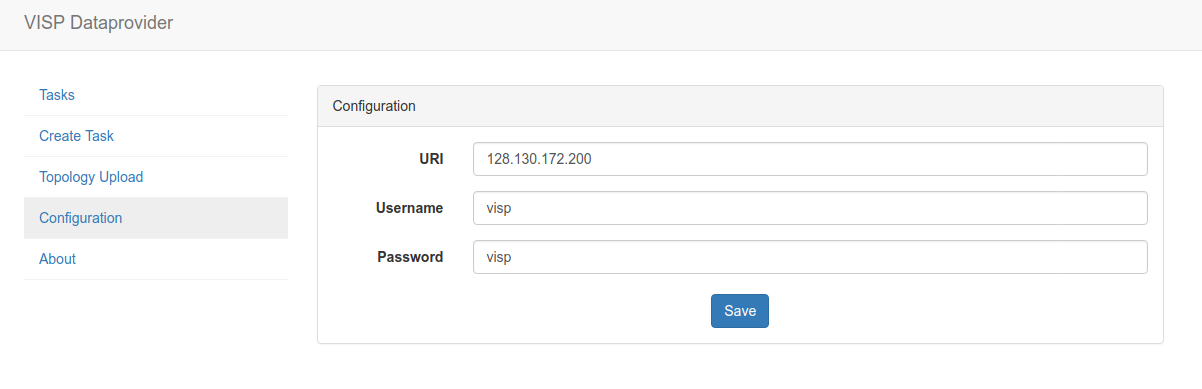
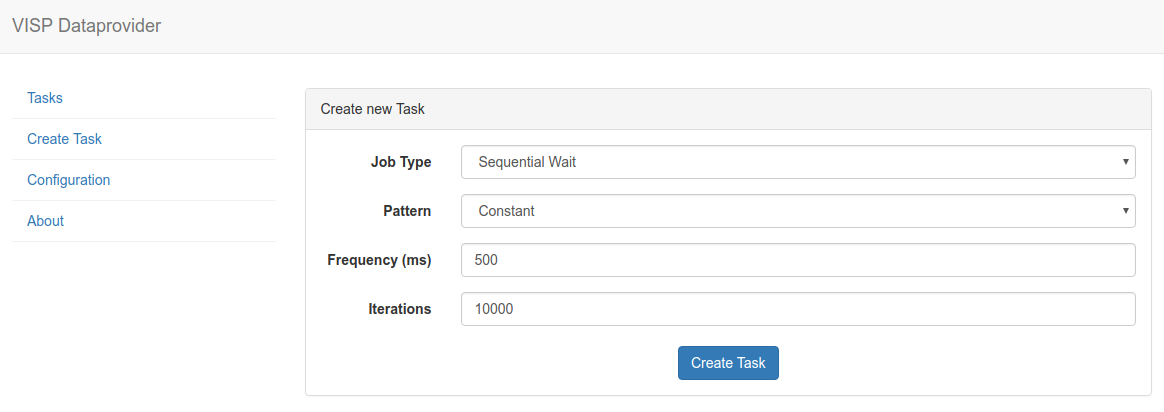
updated documentation

diff --git a/_layouts/quickstart.html b/_layouts/quickstart.html
@@ -7,7 +7,7 @@ title: Quick Start
 
                           {{ content }}
                         </div><!--//content-inner-->
-                    </div><!--//doc-content-->                                        
+                    </div><!--//doc-content-->
                     <div class="doc-sidebar hidden-xs">
                         <nav id="doc-nav">
                             <ul id="doc-menu" class="nav doc-menu" data-spy="affix">
@@ -25,7 +25,7 @@ title: Quick Start
                                 <li>
                                     <a class="scrollto" href="#setup-visp">Setup VISP</a>
                                     <ul class="nav doc-sub-menu">
-                                        <li><a class="scrollto" href="#resource-pools">Resource Pools</a></li>
+                                        <li><a class="scrollto" href="#creating-resource-pools">Creating Resource Pools</a></li>
                                         <li><a class="scrollto" href="#deploy-topology">Deploy Topology</a></li>
                                     </ul>
                                 </li>
@@ -34,9 +34,9 @@ title: Quick Start
                                     <ul class="nav doc-sub-menu">
                                         <li><a class="scrollto" href="#download-1">Download</a></li>
                                         <li><a class="scrollto" href="#run-data-provider">Run Data Provider Topology</a></li>
-                                        <li><a class="scrollto" href="#stream-data">Stream Data</a></li>                                        
+                                        <li><a class="scrollto" href="#stream-data">Stream Data</a></li>
                                     </ul>
-                                </li>                                                                                                 
+                                </li>
                                 <li><a class="scrollto" href="#fine-tuning">Fine Tuning</a></li>
                             </ul><!--//doc-menu-->
                         </nav>

diff --git a/start.md b/start.md
@@ -49,7 +49,7 @@ docker run --net="host" -d --name mysql -e MYSQL_ROOT_PASSWORD=visp -e MYSQL_DAT
 
 # Configuration
 
-Before the VISP runtime can be executed, two credentials files need to be configured:
+Before the VISP runtime can be executed, the following configuration is necessary:
 
 
 ## Credentials
@@ -107,6 +107,10 @@ Make a copy of the `credential.sample.properties` file and name it `credential.p
 
 The spring credentials for the database and rabbitmq can be kept the same if no changes were made during the container deployment process in the setup of the infrastructure host.
 
+## Database IP
+
+Just in case the VISP Runtime is executed on a host *different* from the host where rabbitmq and MySQL are running, it is possible to specify the database IP manually. This is possible by creating a `database.properties` file in the application root that contains the IP of the host where the MySQL server is running.
+
 # Run VISP
 
 The easiest way to run VISP is by using a docker image.
@@ -153,22 +157,11 @@ mvn spring-boot:run
 ```
 
 
-# Configure Resource Pools
-
-<!--
-# Run VISP
-
-```
-mvn spring-boot:run
-```
--->
-
-
 # Setup VISP
 
-## Resource Pools
+## Creating Resource Pools
 
-Once the infrastructure host is up and running, a resource pool needs to be created. Resource pools are basically cloud computing instances where docker containers are executed. Open the web interface of the infrastructure host (`http://<infrastructureHoste>:8080/`) and navigate to <b>Resource Pools</b>. Initially, there should be no entries. Create a new pool by clickin on the <b>Add new pooled VM</b> button and specify a name, an instance flavour and a cost. The name is an identifier and is also used in the topology config file to distinguish different pools on the same runtime instance. The flavour reflects the amount of computational resources available and basically limits how many operators can be deployed at the same time. The cost value is currently not used.
+Once the infrastructure host is up and running, a resource pool needs to be created. Resource pools are basically cloud computing instances where docker containers are executed. Open the web interface of the infrastructure host (`http://<infrastructureHost>:8080/`) and navigate to <b>Resource Pools</b>. Initially, there should be no entries. Create a new pool by clickin on the <b>Add new pooled VM</b> button and specify a name, an instance flavour and a cost. The name is an identifier and is also used in the topology config file to distinguish different pools on the same runtime instance. The flavour reflects the amount of computational resources available and basically limits how many operators can be deployed at the same time. The cost value is currently not used.
 
 <div class="screenshot-holder">
 <a href="img/quickstart/resourcepools.png" data-title="Add new resource pool" data-toggle="lightbox"><img class="img-responsive" src="img/quickstart/resourcepools.png" alt="add new resource pool"></a>
@@ -199,7 +192,7 @@ In order to evaluate whether the set up topology is actually working properly, w
 <div class="section-block">
 You can download the source code from Github: <br /><br />
 
-	<a class="btn btn-primary btn-cta" href="https://github.com/visp-streaming/dataProvider" target="_blank">
+	<a class="btn btn-primary btn-cta" href="https://github.com/visp-streaming/dataProvider">
 	<i class="fa fa-cloud-download"></i> VISP Data Provider</a>
 </div>
 
@@ -215,6 +208,11 @@ mvn spring-boot:run
 
 Before the data stream can be started, the configuration has to be adapted. Navigate to the VISP Data Provider web interface: `http://localhost:8090/`
 
+There, enter the public URI of the VISP Runtime where the target source operator is located. E.g., if the source that should be addressed is deployed at a VISP runtime `128.130.172.222`, enter that IP.
+
+Username and password are the credentials for the rabbitmq server that were set during the docker deployment of the infrastructure host.
+
+Once the credentials are configured, navigate to *Create Task*, pick a template (e.g. SequentialWait) and specify the frequency and number of iterations. The template decides which queue is targeted and what kind of data is sent.
 
 <div class="screenshot-holder">
 <a href="img/quickstart/dataprovider.png" data-title="Configure Data Provider" data-toggle="lightbox"><img class="img-responsive" src="img/quickstart/dataprovider.png" alt="Configure Data Provider"></a>
@@ -222,9 +220,8 @@ Before the data stream can be started, the configuration has to be adapted. Navi
 </div>
 
 
-There, enter the public URI of the VISP Runtime where the target source operator is located. E.g., if the source that should be addressed is deployed at a VISP runtime `128.130.172.222`, enter that IP.
 
-Username and password are the credentials for the rabbitmq server that were set during the docker deployment of the infrastructure host.
+
 
 ## Observe the Data Processing
 
@@ -243,5 +240,4 @@ The first part represents the sending operator's VISP runtime IP. Separated by a
 
 TBD: discuss all other attributes in application.properties as well as in the configuration menue
 
-Setting the IPs correctly is critical: `VISP_RUNTIME_IP` is the public IP of the VISP runtime. This is also the IP that is used in the configuration file to distinguish different runtimes. In practise, it is the IP of the OpenStack instance where the above command is executed. All the other IPs must be set to `127.0.0.1` if deployment is done via docker on OpenStack. The reasons is that OpenStack instances cannot access themselves by their own public IPs (at least in our version).
-
+<!--Setting the IPs correctly is critical: `VISP_RUNTIME_IP` is the public IP of the VISP runtime. This is also the IP that is used in the configuration file to distinguish different runtimes. In practise, it is the IP of the OpenStack instance where the above command is executed. All the other IPs must be set to `127.0.0.1` if deployment is done via docker on OpenStack. The reasons is that OpenStack instances cannot access themselves by their own public IPs (at least in our version).-->

diff --git a/components.md b/components.md
@@ -77,9 +77,9 @@ In curly braces, the following options can be specified:
 * `concreteLocation`<br />
 Location (rabbitmq host, resource pool) where the operator should be deployed<br /><br />
 * `allowedLocations`<br />
-List of locations where the operator can be deployed (a concrete location is picked from this list if none is explicitly provided)<br /><br />
+List of locations where the operator can be deployed (a concrete location is picked from this list if none is explicitly provided). Each location is separated from the next one with a single space. <br /><br />
 * `type`<br />
-<br /><br />
+<br />The type is an identifier for the abstract node function<br />
 * `inputFormat`<br />
 Which kinds of input format are expected<br /><br />
 * `outputFormat`<br />
@@ -116,6 +116,30 @@ A processing node is implemented as a docker image. Whenever a node is instantia
 TODO (Christoph): explain how a processing node must be implemented in that docker image
 
 The VISP runtime may decide to replicate a processing node at runtime; this means that more than one docker container is deployed from the same docker image. The reason for this replication is to have more copies of the same processing nodes in order to partition the input data and divide the work between all the replicas.
+
+## Update mechanism
+
+One interesting implementation detail concerns the way the running containers are handled in case of a topology update. Imagine A topology consisting of a source node *Source*, a processing operator *Step1* and a sink node *Sink*. The following figure displays such a topology.
+
+<div class="screenshot-holder">
+<a href="img/quickstart/topology_example1.png" data-title="Configure Data Provider" data-toggle="lightbox"><img class="img-responsive" src="img/quickstart/topology_example1.png" alt="Configure Data Provider"></a>
+<a class="mask" href="img/quickstart/topology_example1.png" data-title="Configure Data Provider" data-toggle="lightbox"><i class="icon fa fa-search-plus"></i></a>
+</div>
+
+Initially, *Step1* is set up to connect to *Source*'s queue and handle messages that are put on that queue (its identifier would be **192.168.0.1/Source>Step1**). Now, let's assume the topology is changed such that a new operator *Step2* is inserted that consumes from *Source*. Also, *Step1* is changed so that it now receives messages from both *Source* **and** *Step2* (as seen in the following figure):
+
+<div class="screenshot-holder">
+<a href="img/quickstart/topology_example2.png" data-title="Configure Data Provider" data-toggle="lightbox"><img class="img-responsive" src="img/quickstart/topology_example2.png" alt="Configure Data Provider"></a>
+<a class="mask" href="img/quickstart/topology_example2.png" data-title="Configure Data Provider" data-toggle="lightbox"><i class="icon fa fa-search-plus"></i></a>
+</div>
+
+While it is easy to set up a new instance for Step2 and point it to the correct queue (**192.168.0.1/Source>Step2**) on setup, it is a little bit more tricky to change *Step1*. Ultimately, it needs to listen to both **192.168.0.1/Source>Step1** and **192.168.0.1/Step2>Step1**. In order to communicate this change to the container *without interrupt the current processing*, the following mechanism is used:
+
+* Write an update command to a specific file inside the docker container (<code>/root/topologyUpdate.txt</code>).
+* This update command to update *Step1* in our example would be: <code>ADD 192.168.0.1/Step2>Step1</code>
+* The docker container has a thread that automatically scans the file system for the addition of new files
+* Once this threads notices the new file, its content is read and the appropriate update is executed
+* In this case, a new connection to the queue **192.168.0.1/Step2>Step1** is created and the docker container will now listen to messages coming from that queue.
 
 # Data Provider
 
